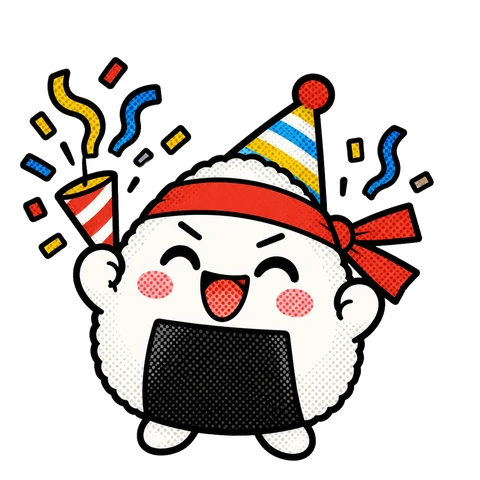
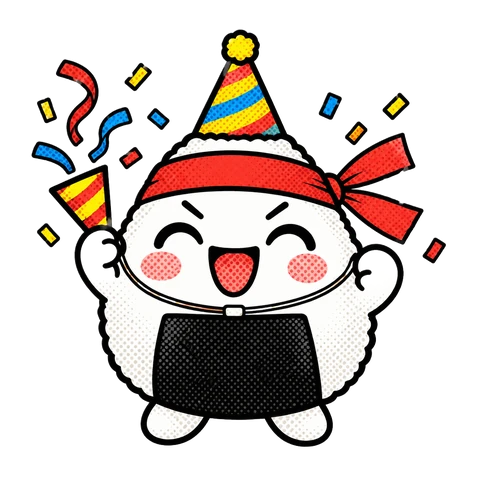
Maskottchen feiernd neu (Hut mittig) und zusätzliche Pose konfetti

diff --git a/js/app.js b/js/app.js
@@ -289,6 +289,14 @@ function streakRettbar() {
   return tage >= 2 && letzter === vorgestern() && profil.tagesquiz?.datum !== heute();
 }
 
+// Serie um heute verlängern: Tagesquiz gespielt oder Tagesziel im Dojo erreicht
+function serieHeute() {
+  const s = profil.streak;
+  if (s.letzter === heute()) return;
+  s.tage = s.letzter === gestern() ? s.tage + 1 : 1;
+  s.letzter = heute();
+}
+
 function aktuelleStreak() {
   const { tage, letzter } = profil.streak;
   return letzter === heute() || letzter === gestern() ? tage : 0;
@@ -749,11 +757,7 @@ function beendeRunde() {
     neuerRekord = r.richtig > 0;
   }
   if (r.modus === 'tages') {
-    const s = profil.streak;
-    if (s.letzter !== heute()) {
-      s.tage = s.letzter === gestern() ? s.tage + 1 : 1;
-      s.letzter = heute();
-    }
+    serieHeute();
     profil.tagesquiz = { datum: heute(), richtig: r.richtig, gesamt, verlauf: [...r.verlauf], punkte: r.punkte };
   }
   if (r.modus === 'klassisch' && r.opts.kategorie !== 'mix' && !profil.gespielteKategorien.includes(r.opts.kategorie)) {
@@ -1233,7 +1237,7 @@ function tabbar(aktiv) {
   </nav>`;
 }
 
-const STIMMUNGEN = ['entschlossen', 'jubelnd', 'traurig', 'panisch', 'nachdenklich', 'stolz', 'erledigt', 'schlafend', 'mentor', 'kaempferisch', 'siegreich', 'winkend', 'daumenhoch', 'lesend', 'ueberrascht', 'verlegen', 'herausfordernd', 'feiernd', 'cool'];
+const STIMMUNGEN = ['entschlossen', 'jubelnd', 'traurig', 'panisch', 'nachdenklich', 'stolz', 'erledigt', 'schlafend', 'mentor', 'kaempferisch', 'siegreich', 'winkend', 'daumenhoch', 'lesend', 'ueberrascht', 'verlegen', 'herausfordernd', 'feiernd', 'konfetti', 'cool'];
 
 function maskottchen(stimmung = 'entschlossen', id = '') {
   return `<img class="maskottchen" ${id ? `id="${id}"` : ''} src="assets/stimmung/${stimmung}.webp" alt="">`;
@@ -2500,7 +2504,7 @@ async function init() {
     profil.reise ||= { sterne: {}, durchgang: 1 };
     ui.durchgang = profil.reise.durchgang === 2 && zweiteReiseOffen() ? 2 : 1;
     uebernimmAlteKategorien();
-    dojoEinrichten({ profil: () => profil, speichern, render, esc, maskottchen, tabbar, frage, ICON, ui, onlineProfil: () => ui.online.profil });
+    dojoEinrichten({ profil: () => profil, speichern, render, esc, maskottchen, tabbar, frage, ICON, ui, onlineProfil: () => ui.online.profil, serie: serieHeute, streak: aktuelleStreak });
     // Stimmungsbilder vorladen, damit beim Wechsel nichts flackert
     STIMMUNGEN.forEach((s) => { new Image().src = `assets/stimmung/${s}.webp`; });
     // Einladungslink? (…?einladung=CODE)
